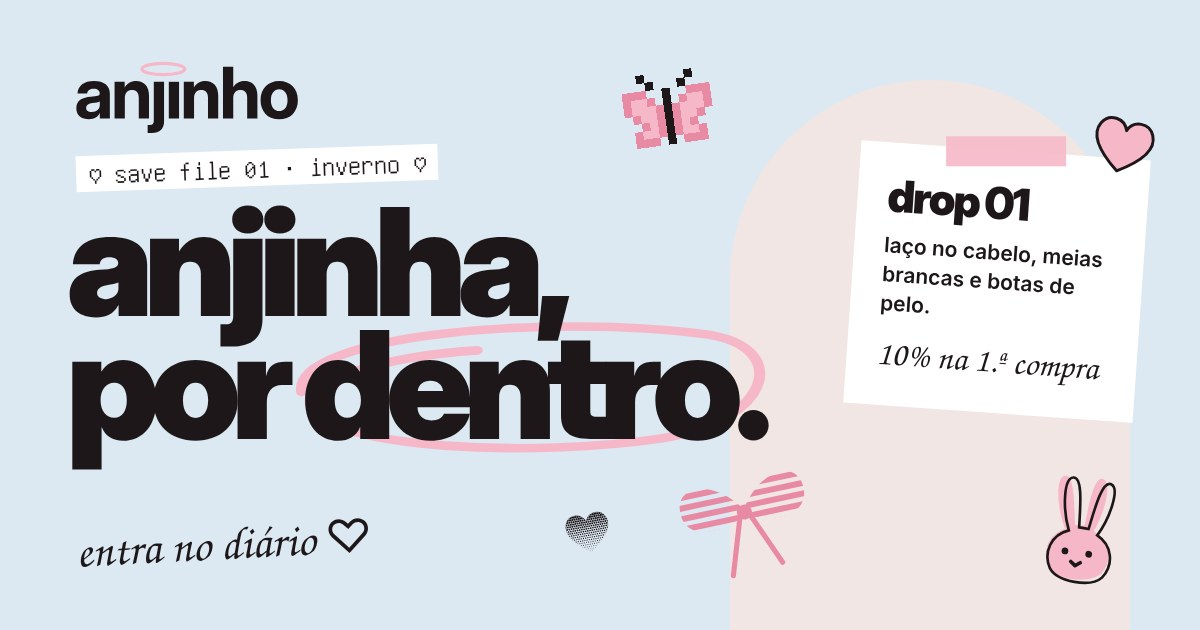
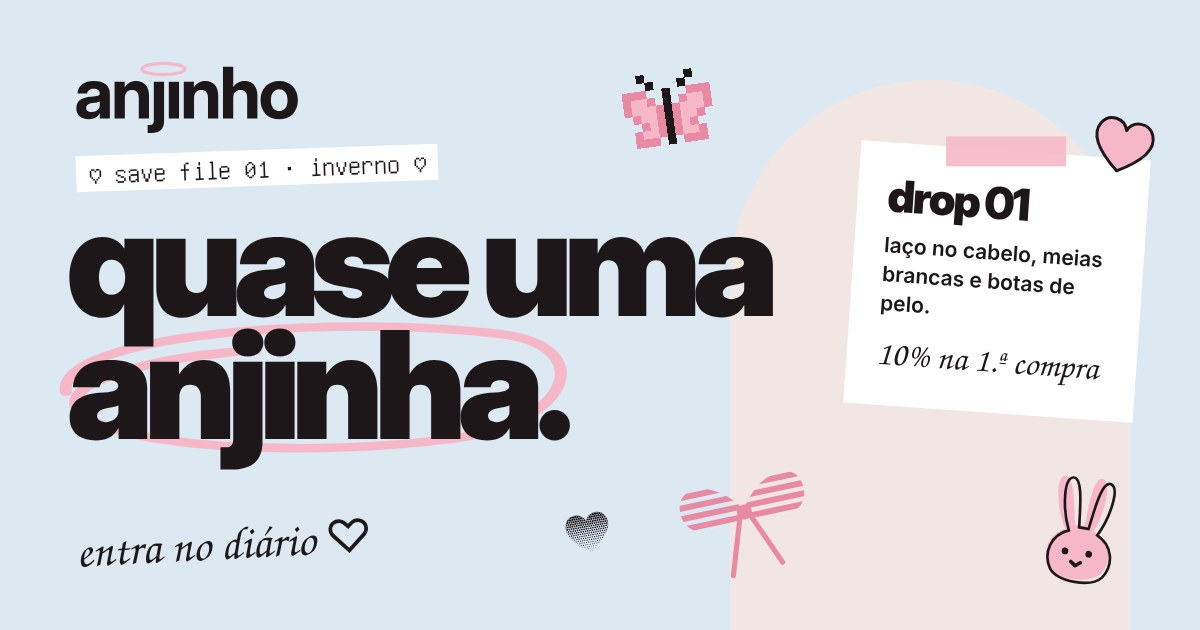
anjinho: novo slogan «quase uma anjinha.» no hero e na imagem de partilha
Claude-Session: https://claude.ai/code/session_012PT6h6v51v6EsV2bxKbvb4

Changed region(s): [[0.0308, 0.3317, 0.6475, 0.754]]

diff --git a/anjinho/site/index.html b/anjinho/site/index.html
@@ -17,7 +17,7 @@
 <meta property="og:image:type" content="image/jpeg">
 <meta property="og:image:width" content="1200">
 <meta property="og:image:height" content="630">
-<meta property="og:image:alt" content="anjinho: «anjinha, por dentro.» com laços, corações, uma borboleta e um coelhinho, e a nota drop 01, 10% na primeira compra">
+<meta property="og:image:alt" content="anjinho: «quase uma anjinha.» com laços, corações, uma borboleta e um coelhinho, e a nota drop 01, 10% na primeira compra">
 <meta name="twitter:card" content="summary_large_image">
 <meta name="twitter:title" content="anjinho ♡">
 <meta name="twitter:description" content="drop 01 da anjinho é de inverno: entra no diário, sabes dele antes de toda a gente e ganhas 10% na primeira compra.">
@@ -98,7 +98,7 @@ footer{padding:64px var(--m) calc(32px + env(safe-area-inset-bottom));font-size:
 <section class="topo" aria-labelledby="t">
   <div>
     <span class="etq pix">♡ save file 01 · inverno ♡</span>
-    <h1 id="t">anjinha,<br>por <span class="circ">dentro.<svg viewBox="0 0 560 220" preserveAspectRatio="none" aria-hidden="true"><path class="traco" d="M30 120 C 20 40, 300 10, 470 40 C 560 58, 540 160, 420 185 C 280 212, 60 200, 40 140 C 30 105, 120 70, 220 62" fill="none" stroke="#F6B8C8" stroke-width="12" stroke-linecap="round"/></svg></span></h1>
+    <h1 id="t">quase uma<br><span class="circ">anjinha.<svg viewBox="0 0 560 220" preserveAspectRatio="none" aria-hidden="true"><path class="traco" d="M30 120 C 20 40, 300 10, 470 40 C 560 58, 540 160, 420 185 C 280 212, 60 200, 40 140 C 30 105, 120 70, 220 62" fill="none" stroke="#F6B8C8" stroke-width="12" stroke-linecap="round"/></svg></span></h1>
   </div>
   <p class="sub">a anjinho está quase pronta. o primeiro drop é de inverno e chega primeiro a quem entrar no diário.</p>
   <div class="st cola flutua" data-f="borboleta" data-e="pixel" style="right:7%;top:6px;width:56px;--r:rotate(-6deg)"></div>

diff --git a/anjinho/site/previa/index.html b/anjinho/site/previa/index.html
@@ -17,7 +17,7 @@
 <meta property="og:image:type" content="image/jpeg">
 <meta property="og:image:width" content="1200">
 <meta property="og:image:height" content="630">
-<meta property="og:image:alt" content="anjinho: «anjinha, por dentro.» com laços, corações, uma borboleta e um coelhinho, e a nota drop 01, 10% na primeira compra">
+<meta property="og:image:alt" content="anjinho: «quase uma anjinha.» com laços, corações, uma borboleta e um coelhinho, e a nota drop 01, 10% na primeira compra">
 <meta name="twitter:card" content="summary_large_image">
 <meta name="twitter:title" content="anjinho · drop 01 (pré-visualização)">
 <meta name="twitter:description" content="uma espreitadela à loja da anjinho antes de abrir: o drop 01 de inverno, peça a peça. as fotos e os preços ainda podem mudar.">
@@ -262,7 +262,7 @@ atualizaSaco(0);
     <div class="st" data-f="coracao" data-e="pixel" style="right:7%;top:58%;width:10%;transform:rotate(8deg)"></div>
   </div>
   <span class="etq pix">♡ save file 01 · inverno ♡</span>
-  <h1>anjinha,<br>por <span class="circ">dentro.<svg viewBox="0 0 560 220" preserveAspectRatio="none" aria-hidden="true"><path class="traco" d="M30 120 C 20 40, 300 10, 470 40 C 560 58, 540 160, 420 185 C 280 212, 60 200, 40 140 C 30 105, 120 70, 220 62" fill="none" stroke="#F6B8C8" stroke-width="12" stroke-linecap="round"/></svg></span></h1>
+  <h1>quase uma<br><span class="circ">anjinha.<svg viewBox="0 0 560 220" preserveAspectRatio="none" aria-hidden="true"><path class="traco" d="M30 120 C 20 40, 300 10, 470 40 C 560 58, 540 160, 420 185 C 280 212, 60 200, 40 140 C 30 105, 120 70, 220 62" fill="none" stroke="#F6B8C8" stroke-width="12" stroke-linecap="round"/></svg></span></h1>
   <p class="nota mao">botas nuvem + meias brancas ♡</p>
   <div class="lado">anjinho © 2026 · feito em portugal com amor</div>
   <div class="st cola hs1" data-f="borboleta" data-e="pixel" style="--r:rotate(-6deg)"></div>
